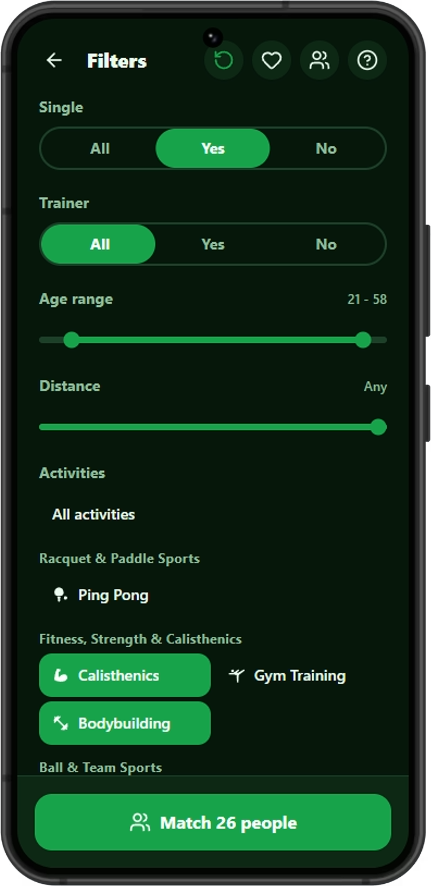
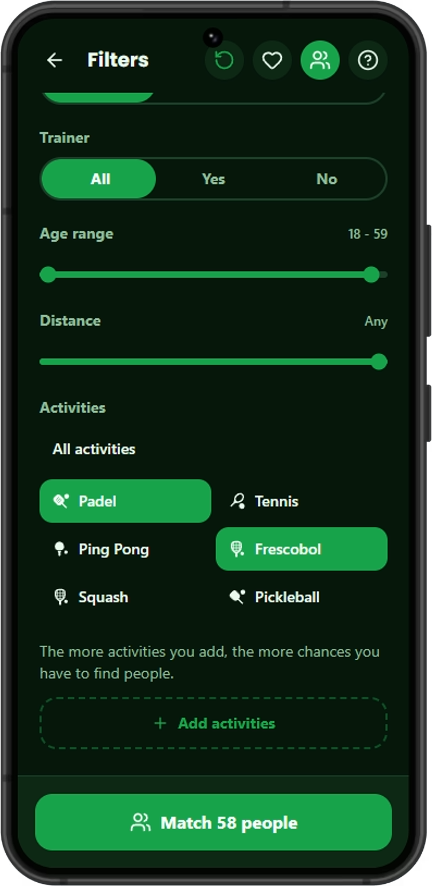
wip

diff --git a/src/routes/+page.svelte b/src/routes/+page.svelte
@@ -179,7 +179,7 @@
 
     <!-- Activity carousel -->
     <!-- no z-index here: it must not trap the carousel's fixed background image in a stacking context above the logo/CTA -->
-    <div transition:fade class="relative flex w-full justify-center">
+    <div transition:fade class="relative flex w-full justify-center -mt-4">
       <ActivityCarousel />
     </div>
 
@@ -191,7 +191,7 @@
           authMode = "login";
           authModalOpen = true;
         }}
-        class="flex w-full items-center justify-center gap-3 rounded-2xl border-2 border-primary/50 bg-surface/20 py-4 text-center text-base font-semibold text-text shadow-sm backdrop-blur-sm active:scale-95"
+        class="flex w-full items-center justify-center gap-3 rounded-2xl border-2 border-primary/50 bg-surface/80 py-4 text-center text-base font-semibold text-text shadow-sm backdrop-blur-sm active:scale-95"
       >
         <LogIn class="size-5" />
         {t.t("auth.signIn")}
@@ -211,7 +211,7 @@
 
     <!-- fades the hero photo into the solid page bg instead of cutting off hard at the fold -->
     <div
-      class="pointer-events-none absolute inset-x-0 bottom-0 h-1/3 bg-gradient-to-b from-transparent to-bg"
+      class="pointer-events-none absolute inset-x-0 bottom-0 h-1/2 bg-gradient-to-b from-transparent to-bg"
       aria-hidden="true"
     ></div>
   </div>

diff --git a/src/lib/components/ActivityCarousel.svelte b/src/lib/components/ActivityCarousel.svelte
@@ -2,6 +2,7 @@
   export const CAROUSEL_ACTIVITIES = [
     { id: "beachVolley" },
     { id: "padel" },
+    { id: "skateboard" },
     { id: "boxing" },
     { id: "footVolley" },
     { id: "jogging" },
@@ -31,6 +32,7 @@
   import boxingImg from "$lib/assets/homepage/boxing.jpg?quality=45&enhanced";
   import surfImg from "$lib/assets/homepage/surf.jpg?quality=45&enhanced";
   import soccerImg from "$lib/assets/homepage/football.jpg?quality=45&enhanced";
+  import skateImg from "$lib/assets/homepage/skate.jpg?quality=45&enhanced";
 
   let t = $derived(createTranslator($activeLanguage));
 
@@ -61,6 +63,7 @@
 
   // background photo per activity, falling back to a cycling set when there's no dedicated image
   const IMAGE_MAP: Record<string, typeof padelImg> = {
+    skateboard: skateImg,
     padel: padelImg,
     footVolley: footvolleyImg,
     jogging: joggingImg,

diff --git a/src/routes/matches/+page.svelte b/src/routes/matches/+page.svelte
@@ -151,7 +151,7 @@
   <!-- Header -->
   <div class="sticky top-0 z-10 bg-bg px-5 pb-3 pt-5">
     <h1 class="text-2xl font-black text-text">{t.t("nav.matches")}</h1>
-    <p class="text-sm text-muted">{t.t("matches.subtitle")}</p>
+    <!-- <p class="text-sm text-muted">{t.t("matches.subtitle")}</p> -->
   </div>
 
   {#if loading}
